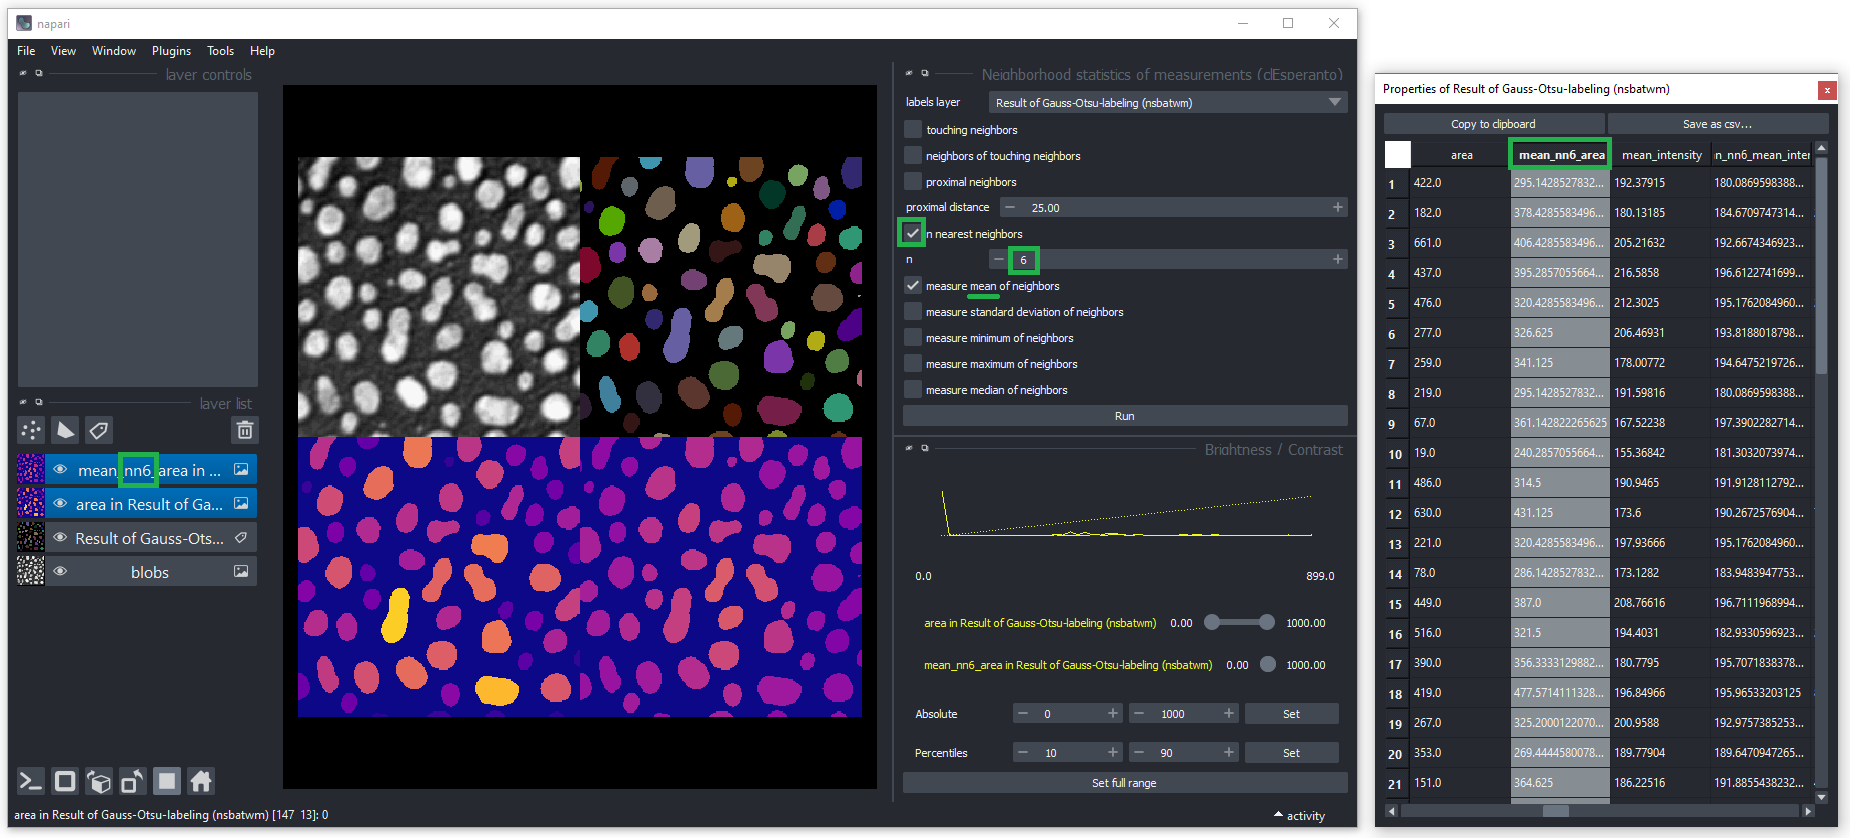
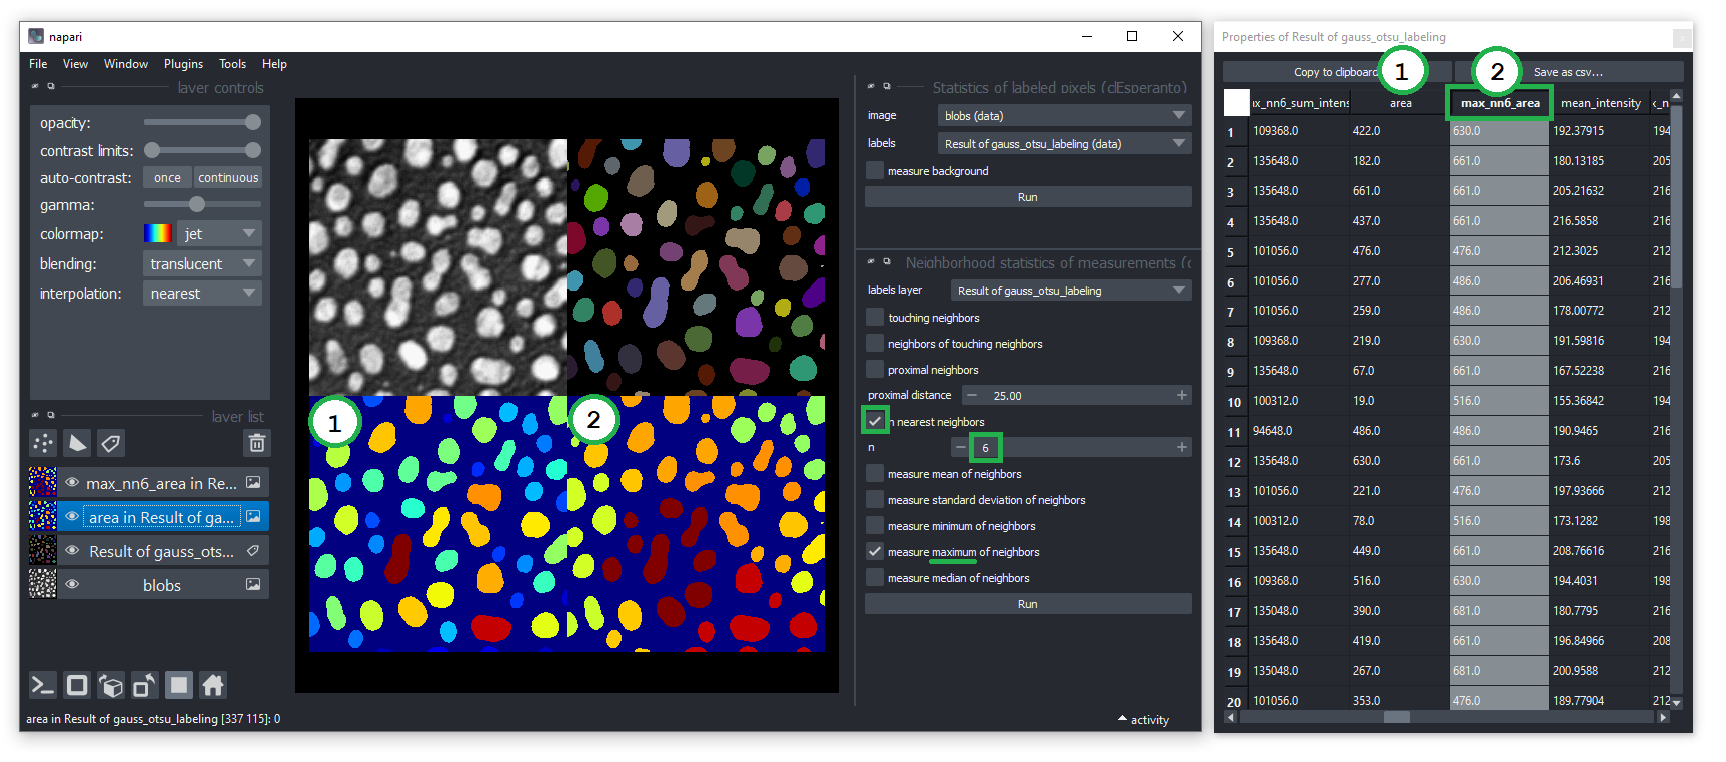
updated documentation

diff --git a/README.md b/README.md
@@ -80,10 +80,10 @@ When your workflow is set up, click the play button below your dataset:
 
 When working with 2D or 3D data you can analyze measurements in relationship with their neighbors. 
 For example, you can measure the area of blobs as shown in the example shown below using the menu 
-`Tools > Measurements > Statistics of labeled pixels (clesperant)` and visualize it as 'area' image by double-clicking on the table column.
-Additionally, you can measure the mean area of the 6 nearest neighbors using the menu `Tools > Measurments > Neighborhood statistics of measurements`.
-The new column will then be called "mean_nn6_area...". When visualizing such parametric images next by each other, it is recommended to use
-[napari-brightness-contrast](https://www.napari-hub.org/plugins/napari-brightness-contrast).
+`Tools > Measurements > Statistics of labeled pixels (clesperant)` and visualize it as `area` image by double-clicking on the table column (1).
+Additionally, you can measure the maximum area of the 6 nearest neighbors using the menu `Tools > Measurments > Neighborhood statistics of measurements`.
+The new column will then be called "max_nn6_area..." (2). When visualizing such parametric images next by each other, it is recommended to use
+[napari-brightness-contrast](https://www.napari-hub.org/plugins/napari-brightness-contrast) and visualize the same intensity range to see differences correctly.
 
 ![](https://github.com/clEsperanto/napari_pyclesperanto_assistant/raw/master/docs/images/neighbor_statistics.png)
 
